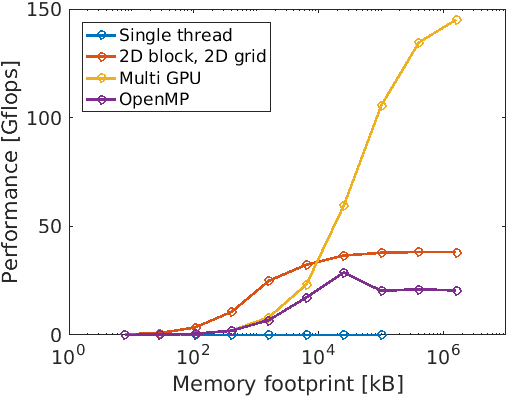
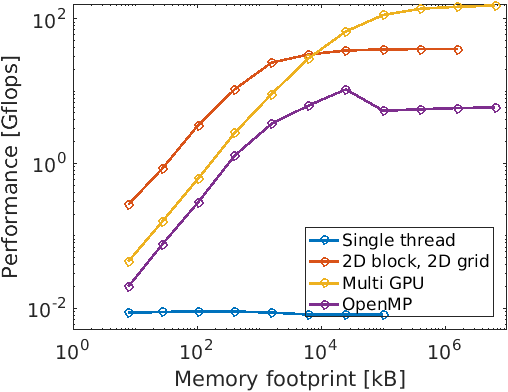
Hopefully last results for Poissons

diff --git a/assignment3/poisson/performancePlots.m b/assignment3/poisson/performancePlots.m
@@ -2,14 +2,21 @@ close all; clear;
 
 % Define functions
 mem = @(N) 3*(N+2).^2*8./1e3;
-flops = @(N,k,t) 2*k.*N.^2*6./t/1e9;
-bandwidth = @(N,k,t) 2*3*k.*N.^2*8./t/1e9;
-
+flops = @(N,k,t) k.*N.^2*6./t/1e9;
+bandwidth = @(N,k,t) 3*k.*N.^2*8./t/1e9;
 
 A7 = load('7/gpu1282574.out');
-A8 = load('8/gpu1282576.out');
-A9 = load('9/gpu1282578.out');
-Aomp = load('omp/cpuOMP1283036.out');
+A8 = load('8/gpu1283268.out');
+A9 = load('9/gpu1283108.out');
+Aomp = load('omp/cpuOMP1284027.out');
+
+% Last datapoint is not valid (not working for large matrix?)
+A8(end,:) = [];
+
+% Multiply k column by 2, as we do 2 updated pr iteration for GPU versions
+A7(:,2) = 2*A7(:,2);
+A8(:,2) = 2*A8(:,2);
+A9(:,2) = 2*A9(:,2);
 
 % Add memory footprint column
 A7 = [A7 mem(A7(:,1))];
@@ -25,7 +32,7 @@ Aomp = [Aomp flops(Aomp(:,1),Aomp(:,2),Aomp(:,3))];
 
 % Add speedup column
 A7 = [A7 Aomp(1:8,3)./A7(:,3)];
-A8 = [A8 Aomp(:,3)./A8(:,3)];
+A8 = [A8 Aomp(1:10,3)./A8(:,3)];
 A9 = [A9 Aomp(:,3)./A9(:,3)];
 
 % Add bandwidth column
@@ -35,20 +42,22 @@ A9 = [A9 bandwidth(A9(:,1),A9(:,2),A9(:,3))];
 
 % memory footprint vs flops
 figure;
-semilogx(A7(:,4),A7(:,5),'-o',A8(:,4),A8(:,5),'-o',A9(:,4),A9(:,5),'-o',Aomp(:,4),Aomp(:,5),'-o','LineWidth',2);
+loglog(A7(:,4),A7(:,5),'-o',A8(:,4),A8(:,5),'-o',A9(:,4),A9(:,5),'-o',Aomp(:,4),Aomp(:,5),'-o','LineWidth',2);
 xlabel('Memory footprint [kB]'); ylabel('Performance [Gflops]');
-axis([1e0 1e7 0 150]);
-legend('Single thread','2D block, 2D grid','Multi GPU','OpenMP','Location','northwest');
+axis([1e0 1e7 5e-3 1.6e2]);
+lh = legend('Single thread','2D block, 2D grid','Multi GPU','OpenMP','Location','southeast');
+set(lh,'color','none');
 set(gca,'fontsize',14);
 set(gcf, 'Color', 'w');
-%export_fig 'memVsFlops.png'
+export_fig 'memVsFlops.png'
+
 
 % memory footprint vs speedup
 figure;
 semilogx(A7(:,4),A7(:,6),'-o',A8(:,4),A8(:,6),'-o',A9(:,4),A9(:,6),'-o',[1e0 1e7],[1 1],'--k','LineWidth',2);
 xlabel('Memory footprint [kB]'); ylabel('Speedup (CPU/GPU)');
-axis([1e0 1e7 0 10]);
-lh = legend('Single thread','2D block, 2D grid','Multi GPU','Reference');
+axis([1e0 1e7 0 30]);
+lh = legend('Single thread','2D block, 2D grid','Multi GPU','Reference','Location','northwest');
 set(lh,'color','none');
 set(gca,'fontsize',14);
 set(gcf, 'Color', 'w');
@@ -59,7 +68,7 @@ export_fig 'memVsSpeedup.png'
 figure;
 semilogx(A7(:,4),A7(:,7),'-o',A8(:,4),A8(:,7),'-o',A9(:,4),A9(:,7),'-o','LineWidth',2);
 xlabel('Memory footprint [kB]'); ylabel('Bandwidth [GB/s]');
-axis([1e0 1e7 0 600]);
+axis([1e0 1e7 0 700]);
 legend('Single thread','2D block, 2D grid','Multi GPU','Location','northwest');
 set(gca,'fontsize',14);
 set(gcf, 'Color', 'w');
